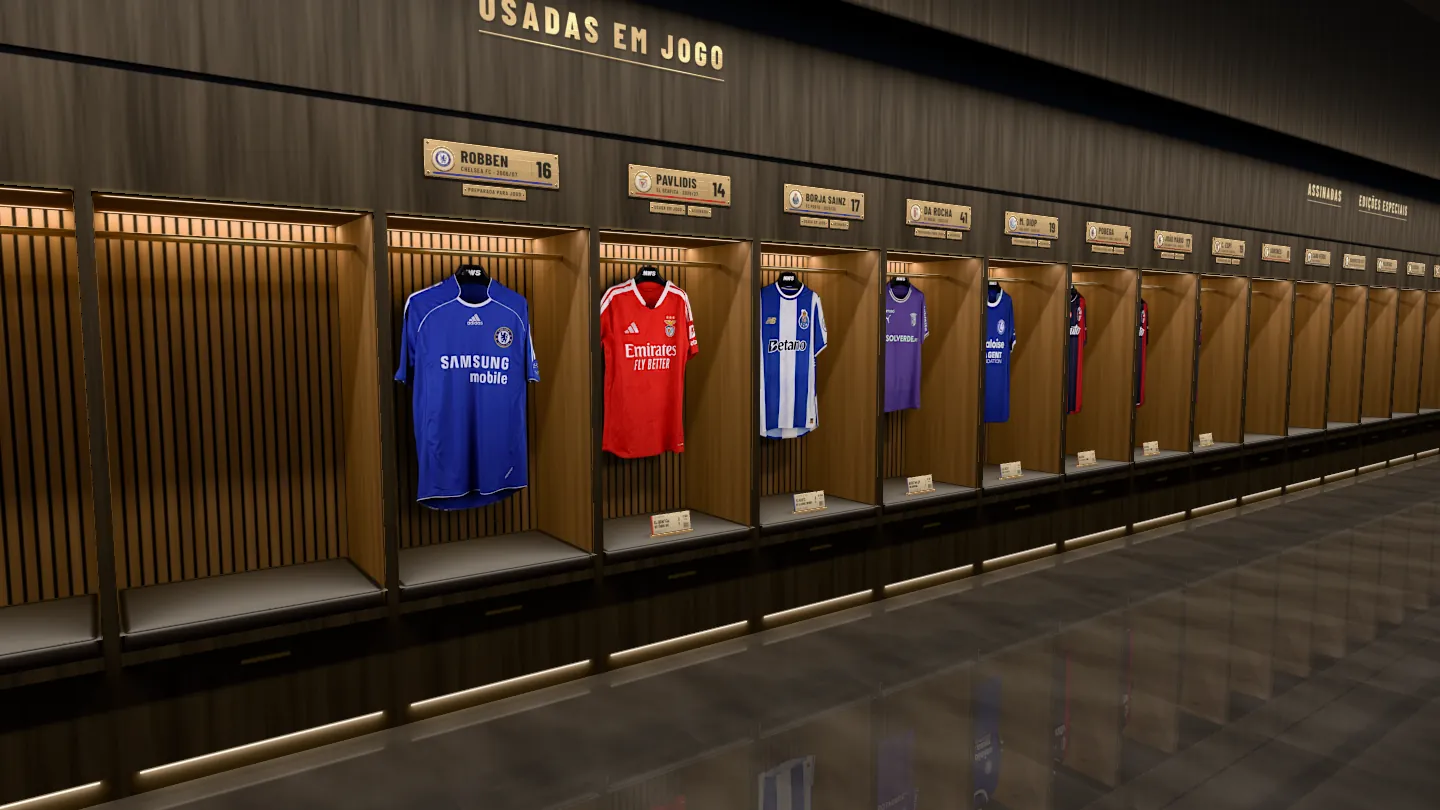
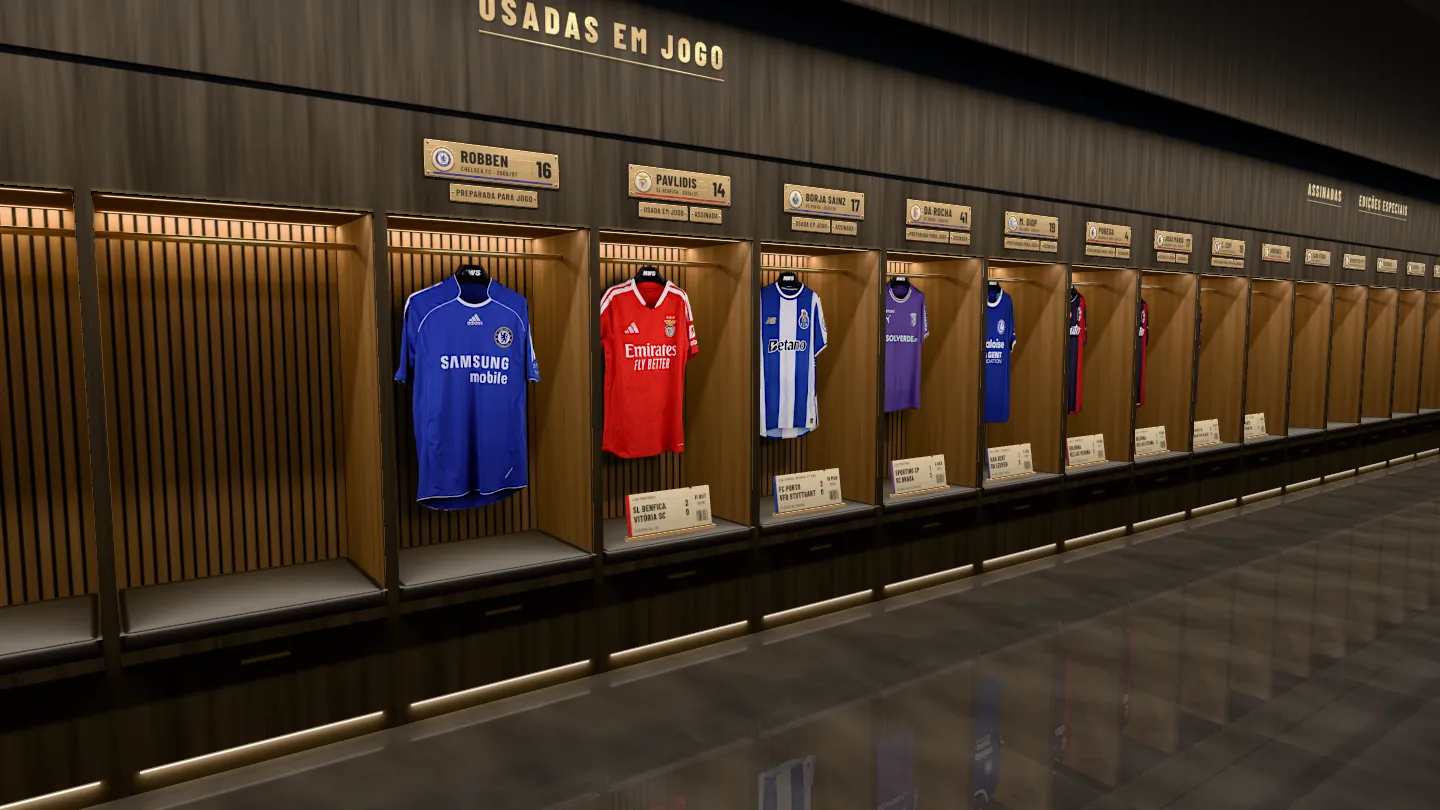
Versão 29: as chapinhas e os bilhetes dos cacifos, maiores
As chapinhas por baixo das placas passam a ter letras de 22 mm (eram 14) e o bilhete do jogo 43 cm de largura (eram 20).
O bilhete aparece mais cedo ao aproximar a vista geral e apaga-se com a camisola tirada do cacifo.
Fotografia nova na porta do balneário.

Claude-Session: https://claude.ai/code/session_0179qM3p6iES5cf63jN79My3

diff --git a/index.html b/index.html
@@ -739,7 +739,7 @@ details[open] summary svg:where(:not(#sala *)){transform:rotate(45deg)}
           <div class="bil-canhoto" id="canhoto"><div class="canhoto-in"><span class="bil-cod" aria-hidden="true"></span></div></div>
         </div>
         <nav class="portas" aria-label="Maneiras de ver a coleção">
-          <a class="porta-i" id="ir-bal" href="#balneario"><img src="sala/i/porta-bal.webp?v=3" alt="" width="1440" height="810" decoding="async"><span class="porta-t"><b>O balneário</b><small id="porta-bal-s">Os cacifos</small><span>Os cacifos e o varão, por categoria.</span></span></a>
+          <a class="porta-i" id="ir-bal" href="#balneario"><img src="sala/i/porta-bal.webp?v=4" alt="" width="1440" height="810" decoding="async"><span class="porta-t"><b>O balneário</b><small id="porta-bal-s">Os cacifos</small><span>Os cacifos e o varão, por categoria.</span></span></a>
           <a class="porta-i" id="ir-mundo" href="#mundo"><img src="sala/i/porta-mundo.webp?v=2" alt="" width="1440" height="810" decoding="async"><span class="porta-t"><b>A volta ao mundo</b><small id="porta-mundo-s">O globo</small><span>O globo, com paragem em cada país.</span></span></a>
         </nav>
       </header>
@@ -1699,9 +1699,10 @@ function luzBaia(j,l){corI.setScalar(l);for(var q=0;q<insts.length;q++)insts[q].
 /* Cada camisola com o que anda com ela (o reflexo no chão, a sombra e, mais abaixo, a placa) é um conjunto à parte dos cacifos:
    ao filtrar por categoria, as que ficam arrumam-se nos primeiros cacifos. "slot" é o cacifo onde está (-1 = fora da sala). */
 /* os pormenores de um cacifo (as chapinhas, o bilhete, a espessura da camisola, a segunda sombra) só se desenham quando a camisola tem tamanho
-   para se verem: de longe e na vista geral não se distinguem, e eram mais uma centena de desenhos por imagem (na vista geral, 350 em vez de 226) */
-var DETPX=32;      /* largura da camisola no ecrã, em pontos (não em píxeis do aparelho) */
-function detalhe(q,o){q.det.push(o);q.perto=null}
+   para se verem: de longe e na vista geral não se distinguem, e eram mais uma centena de desenhos por imagem (na vista geral, 350 em vez de 226).
+   O bilhete, que é a peça maior, entra mais cedo do que os outros (cedo): assim aparece ainda pequeno, sem dar um salto no ecrã */
+var DETPX=32,DETL=24;      /* largura da camisola no ecrã, em pontos (não em píxeis do aparelho): a partir de onde se desenham os pormenores, e os que entram cedo */
+function detalhe(q,o,cedo){q.det.push({o:o,n:cedo?1:2});q.perto=null}
 function fazKit(d,i){
   var q={d:d,i:i,slot:i,mats:[],g:new THREE.Group(),gm:new THREE.Group(),bal:0,vbal:0,luzA:-1,alta:null,eAlta:0,px:0,tFalha:0,longe:false,det:[],perto:null};
   q.g.position.x=q.gm.position.x=i*P;cima.add(q.g);espelho.add(q.gm);
@@ -1709,7 +1710,7 @@ function fazKit(d,i){
   var mpp=WS/d.larg,cx=d.caixa,w=(cx[2]-cx[0])*mpp,h=(cx[3]-cx[1])*mpp;
   /* não deixa a bainha tocar na almofada */
   if(ZV+.02-h<ZC+.07){var f=(ZV+.02-ZC-.07)/h;mpp*=f;w*=f;h*=f}
-  q.mpp=mpp;
+  q.mpp=mpp;q.h=h;
   var geo=new THREE.PlaneGeometry(w,h,REAL?24:1,1);geo.translate(((cx[0]+cx[2])/2-d.gancho[0])*mpp,-h/2,0);
   /* um pouco de corpo: a peça curva-se para trás dos ombros para fora (as mangas ficam uns centímetros atrás do peito) */
   if(REAL&&CURVA){var pg=geo.attributes.position;for(var vi=0;vi<pg.count;vi++){var xn=pg.getX(vi)/(WS/2);pg.setZ(vi,-CURVA*xn*xn)}pg.needsUpdate=true}
@@ -1755,7 +1756,7 @@ function pxKit(q){
 function gereAltas(){
   var quer=null,vq=0,pior=null,vp=1e9,agora=performance.now(),i,q,v;
   for(i=0;i<kits.length;i++){q=kits[i];v=q.px=pxKit(q);
-    if(q.det.length){var pt=v>DETPX*(DENS||razao());if(pt!==q.perto){q.perto=pt;for(var z=0;z<q.det.length;z++)q.det[z].visible=pt;suja=true}}
+    if(q.det.length){var dn=DENS||razao(),pt=v>DETPX*dn?2:v>DETL*dn?1:0;if(pt!==q.perto){q.perto=pt;for(var z=0;z<q.det.length;z++)q.det[z].o.visible=pt>=q.det[z].n;suja=true}}
     /* precisa da grande quando no ecrã fica maior do que a miniatura (um quinto da largura da camisola no vídeo) */
     if(q.eAlta===0){if(v>q.d.larg*.2*1.15&&v>vq&&agora>q.tFalha){vq=v;quer=q}}
     else if(q.eAlta===2&&v<vp){vp=v;pior=q}}
@@ -1863,8 +1864,9 @@ var FS_SALA_PLACA=[
 '  return c;}'].join('\n');
 /* O material de uma peça de latão. peca 0: a placa (quatro parafusos, o medalhão do emblema e a fita de esmalte); peca 1: uma peça pequena
    (proto/toques.js: as chapinhas e a base do bilhete), com dois rebites aos lados (uReb é o raio; a zero não há rebites) e sem medalhão.
-   aro: a largura do aro em relevo no desenho «fundida» (por dentro do chanfro). */
-function plFrag(comum,peca,aro){var A=function(d){return (aro+d).toFixed(4)};return [
+   aro: a largura do aro em relevo no desenho «fundida» (por dentro do chanfro). reb: a que distância da aresta ficam os rebites de uma peça
+   pequena, no latão escovado e na fundida (sem nada: 9 e 11,8 mm, os das primeiras chapinhas). */
+function plFrag(comum,peca,aro,reb){var A=function(d){return (aro+d).toFixed(4)},RB=(reb||[.0090,.0118]).map(function(v){return v.toFixed(4)});return [
 'uniform sampler2D uTinta,uRuido;uniform vec3 uCor,uFogC;uniform float uOp,uEstilo,uSem,uFogN,uFogF,uFoco;'+(peca?'uniform float uReb;':'uniform sampler2D uEmb;uniform vec4 uMed,uFita;'),
 'varying vec3 vW;varying vec3 vL;varying float vProf;',
 comum,
@@ -1905,7 +1907,7 @@ peca?'':'vec3 emblema(vec2 uv){vec2 dx=dFdx(uv),dy=dFdy(uv);\n'+
 '    occ*=1.-.55*(1.-topo)*max(clamp(so*1.3,0.,1.),smoothstep(-CH-'+A(.0008)+',-CH-'+A(-.0004)+',sd2));',
 '  }'].concat(peca?[
    /* dois rebites, um de cada lado, a meia altura (no desenho «fundida» ficam por dentro do aro) */
-'  vec2 sg=vec2(p.x<0.?-1.:1.,1.),o=vec2((abs(p.x)-(TAM.x-mix(.0090,.0118,uEstilo)))*sg.x,p.y);float RS=max(uReb,1e-5),rs=length(o),aas=fwidth(rs)*.7+1e-5;',
+'  vec2 sg=vec2(p.x<0.?-1.:1.,1.),o=vec2((abs(p.x)-(TAM.x-mix('+RB[0]+','+RB[1]+',uEstilo)))*sg.x,p.y);float RS=max(uReb,1e-5),rs=length(o),aas=fwidth(rs)*.7+1e-5;',
 '  float dS=step(.0001,uReb)*(1.-smoothstep(RS-aas,RS+aas,rs));',
 '  float ang=fract(sin(dot(sg,vec2(12.9898,78.233))+uSem*3.7)*43758.5453)*3.14159;',
 '  float fenda=1.-smoothstep(.00028,.00028+aas*1.5,abs(dot(o,vec2(-sin(ang),cos(ang)))));',
@@ -2088,47 +2090,58 @@ function fazLetreiro(txt,x0){
 /* ---------- os toques pessoais de cada cacifo ----------
    Só existem com PERS. São três, e o primeiro vive no material da placa (placas.js): a fita de esmalte na cor da camisola.
    Aqui ficam os outros dois:
-   - as chapinhas: pequenas peças de latão por baixo da placa, só onde há história para contar («Usada em jogo», «Preparada para jogo»,
+   - as chapinhas: peças de latão por baixo da placa, só onde há história para contar («Usada em jogo», «Preparada para jogo»,
      «Assinada», «Edição especial»). São do latão das placas (o mesmo material, com outras medidas), gravadas e presas por dois rebites;
    - o bilhete do jogo: nos cacifos cuja camisola tem um jogo, um bilhete em pé no banco, numa base de latão com ranhura, com as equipas,
      o resultado e a data, no papel do bilhete do início da aplicação.
-   Tudo entra no conjunto da camisola (q.g): acende com o cacifo, apaga-se quando as camisolas vão para o varão e muda de cacifo com ela ao filtrar. */
-var CHA=.040,CHE=.005,CHR=.004,CHC=.0024,CHM=.019,CHF=.014,CHV=.014,CHG=.012;      /* chapinha: altura, espessura, raio dos cantos, chanfro, margem das letras, altura das maiúsculas, distância à placa, intervalo entre duas */
-var FS_CHAPA=null,FS_SOMBRA_CHAPA=null,chTela=null,chTintas={},chGeos={},chSombras={},chVazia=null,nChapas=0,nBilhetes=0;
-function chProgramas(){if(FS_CHAPA)return;var c=plComum(0,0,CHR,CHC);FS_CHAPA=plFrag(c,1,.0034);FS_SOMBRA_CHAPA=plFragSombra(c,CHE/PLE);if(!plRuido)plRuido=plFazRuido()}
-/* a tinta de uma chapinha (as letras, num só canal, como nas placas) e a largura que a peça tem de ter para elas caberem. Uma por texto: são quatro ao todo */
-function chTinta(txt){
-  if(chTintas[txt])return chTintas[txt];
-  var k=PLPX/1000,c=chTela||(chTela=document.createElement('canvas')),x=c.getContext('2d',{willReadFrequently:true}),f=CHF*1000*k/.7,e=('letterSpacing' in x)?f*.085:0;
-  var poe=function(){x.font='700 '+f.toFixed(1)+'px "Barlow Condensed"';if(e)x.letterSpacing=e.toFixed(1)+'px';x.textBaseline='alphabetic';x.textAlign='left'};
-  poe();var wt=x.measureText(txt).width-e,larg=Math.ceil(wt/k+2*CHM*1000)/1000,W=Math.round(larg*PLPX),H=Math.round(CHA*PLPX);
-  c.width=W;c.height=H;poe();x.fillStyle='#000';x.fillRect(0,0,W,H);x.fillStyle='#fff';x.fillText(txt,(W-wt)/2,H/2+CHF*500*k);
+   Tudo entra no conjunto da camisola (q.g): acende com o cacifo, apaga-se quando as camisolas vão para o varão e muda de cacifo com ela ao filtrar.
+   O tamanho: as primeiras tinham as medidas de uma peça a sério (letras de 14 mm, um bilhete de 20 cm) e no telemóvel mal se liam. As medidas
+   de agora partem dessas, multiplicadas: TQC para as chapinhas, TQB para o bilhete. tq=c,b,l muda-as no endereço, para afinar (l é a largura
+   máxima de uma fila de chapinhas, em metros; sem nada, a largura da placa). */
+var TQ=((/[?&]tq=([\d.,]+)/.exec(location.search)||[])[1]||'').split(',').map(Number),TQC=TQ[0]||1.5,TQB=TQ[1]||2.15,CHX=TQ[2]||PLW,TQR=Math.sqrt(TQC);
+var CHA=.040*TQC,CHF=.0147*TQC,CHM=.014*TQC,CHG=.008*TQC,CHV=.014*TQR,CHE=.005*TQR,CHR=.004*TQR,CHC=.0024*TQR,CHT=.04;      /* chapinha: altura, altura das maiúsculas, margem das letras, intervalo entre duas, distância à placa, espessura, raio dos cantos, chanfro, espaço entre letras (em partes do corpo) */
+var FS_CHAPA=null,FS_SOMBRA_CHAPA=null,chTela=null,chTintas={},chGeos={},chSombras={},chVazia=null,nChapas=0,nBilhetes=0,chFila=0;
+function chProgramas(){if(FS_CHAPA)return;var c=plComum(0,0,CHR,CHC);FS_CHAPA=plFrag(c,1,.0034*TQR,[.0090*TQR,.0118*TQR]);FS_SOMBRA_CHAPA=plFragSombra(c,CHE/PLE);if(!plRuido)plRuido=plFazRuido()}
+/* as letras de uma chapinha, com as maiúsculas à altura pedida (m); devolve o espaço entre letras, em píxeis */
+function chLetra(x,alt){var f=alt*PLPX/.7,e=('letterSpacing' in x)?f*CHT:0;x.font='700 '+f.toFixed(1)+'px "Barlow Condensed"';if(e)x.letterSpacing=e.toFixed(1)+'px';x.textBaseline='alphabetic';x.textAlign='left';return e}
+function chCtx(){return (chTela||(chTela=document.createElement('canvas'))).getContext('2d',{willReadFrequently:true})}
+/* a largura (m) que a peça tem de ter para o texto caber, com as letras a essa altura */
+function chLarg(txt,alt){var x=chCtx(),e=chLetra(x,alt);return Math.ceil((x.measureText(txt).width-e)/PLPX*1000+2*CHM*1000)/1000}
+/* a tinta de uma chapinha (as letras, num só canal, como nas placas). Uma por texto e por altura de letra: são quatro textos ao todo */
+function chTinta(txt,alt){
+  var ch=txt+'|'+alt.toFixed(4);if(chTintas[ch])return chTintas[ch];
+  var larg=chLarg(txt,alt),x=chCtx(),c=chTela,W=Math.round(larg*PLPX),H=Math.round(CHA*PLPX);
+  c.width=W;c.height=H;var e=chLetra(x,alt),wt=x.measureText(txt).width-e;x.fillStyle='#000';x.fillRect(0,0,W,H);x.fillStyle='#fff';x.fillText(txt,(W-wt)/2,H/2+alt*PLPX/2);
   var px=x.getImageData(0,0,W,H).data,u=new Uint8Array(W*H);
   for(var y=0;y<H;y++){var o=(H-1-y)*W*4,q=y*W;for(var i=0;i<W;i++)u[q+i]=px[o+i*4]}
   var t=new THREE.DataTexture(u,W,H,THREE.RedFormat,THREE.UnsignedByteType);t.colorSpace=THREE.NoColorSpace;t.generateMipmaps=true;t.minFilter=THREE.LinearMipmapLinearFilter;t.magFilter=THREE.LinearFilter;t.anisotropy=ANISO;t.needsUpdate=true;
-  return chTintas[txt]={t:t,w:larg};
+  return chTintas[ch]={t:t,w:larg};
 }
-/* o material de uma peça pequena de latão. fixo: não muda com o desenho das placas (a base do bilhete é sempre de latão escovado) */
+/* o material de uma peça pequena de latão. fixo: é a base do bilhete, que não muda com o desenho das placas (é sempre de latão escovado) e se apaga com o bilhete */
 function chMaterial(tinta,larg,alt,reb,sem,fixo){
   var m=new THREE.ShaderMaterial({uniforms:{uTinta:{value:tinta},uRuido:{value:plRuido},uCor:{value:new THREE.Color(1,1,1)},uFogC:{value:cena.fog.color},uFogN:{value:cena.fog.near},uFogF:{value:cena.fog.far},
     uOp:{value:1},uEstilo:{value:fixo?0:plEstilo},uSem:{value:sem},uFoco:{value:7},uTam:{value:new THREE.Vector2(larg/2,alt/2)},uReb:{value:reb}},vertexShader:VS_PLACA,fragmentShader:FS_CHAPA,transparent:true});
   m.color=m.uniforms.uCor.value;
   Object.defineProperty(m,'opacity',{get:function(){return this.uniforms.uOp.value},set:function(v){this.uniforms.uOp.value=v}});
-  (fixo?plFixos:plMats).push(m);placas.push(m);return m;
+  (fixo?plFixos:plMats).push(m);(fixo?blMats:placas).push(m);return m;
 }
 function chSombra(larg,alt){
   var ch=larg+'x'+alt;if(chSombras[ch])return chSombras[ch];
   var m=new THREE.ShaderMaterial({uniforms:{uOp:{value:1},uTam:{value:new THREE.Vector2(larg/2,alt/2)}},vertexShader:VS_SOMBRA_PLACA,fragmentShader:FS_SOMBRA_CHAPA,transparent:true,depthWrite:false});
   Object.defineProperty(m,'opacity',{get:function(){return this.uniforms.uOp.value},set:function(v){this.uniforms.uOp.value=v}});placas.push(m);
-  return chSombras[ch]={m:m,g:new THREE.PlaneGeometry(larg+.045,alt+.045)};
+  return chSombras[ch]={m:m,g:new THREE.PlaneGeometry(larg+.045*TQR,alt+.045*TQR)};
 }
-/* as chapinhas de um cacifo, lado a lado e centradas por baixo da placa (duas no máximo: mais do que isso já não cabia à largura da placa) */
+/* as chapinhas de um cacifo, lado a lado e centradas por baixo da placa (duas no máximo). A fila nunca fica mais larga do que a placa:
+   se ficasse, as letras desse cacifo encolhem até caber (é a regra dos nomes compridos nas placas) */
 function fazChapas(q,l,n){
   chProgramas();
-  var ps=l.slice(0,2).map(function(t){return chTinta(t.toUpperCase())}),tot=CHG*(ps.length-1);ps.forEach(function(p){tot+=p.w});
+  var txt=l.slice(0,2).map(function(t){return t.toUpperCase()}),alt=CHF,ws,tot;
+  var mede=function(){ws=txt.map(function(t){return chLarg(t,alt)});tot=CHG*(txt.length-1);ws.forEach(function(w){tot+=w})};
+  for(mede();tot>CHX+1e-6&&alt>CHF*.6;mede())alt-=.0002;
+  if(tot>chFila)chFila=tot;
   var x=-tot/2,y=(ZT+2.15)/2+.012-PLH/2-CHV-CHA/2;
-  ps.forEach(function(p,j){
-    var g=chGeos[p.w]||(chGeos[p.w]=plGeometria(p.w,CHA,CHE,CHR,CHC)),so=chSombra(p.w,CHA),m=chMaterial(p.t,p.w,CHA,.0022,n*1.618+7.3*(j+1));
+  txt.forEach(function(t,j){
+    var p=chTinta(t,alt),g=chGeos[p.w]||(chGeos[p.w]=plGeometria(p.w,CHA,CHE,CHR,CHC)),so=chSombra(p.w,CHA),m=chMaterial(p.t,p.w,CHA,.0022*TQR,n*1.618+7.3*(j+1));
     q.mats.push(m);
     var s=new THREE.Mesh(so.g,so.m);s.position.set(x+p.w/2,y,D+.0034);s.renderOrder=1;q.g.add(s);detalhe(q,s);
     var o=new THREE.Mesh(g,m);o.position.set(x+p.w/2,y,D+.003+CHE);o.renderOrder=2;q.g.add(o);detalhe(q,o);nChapas++;
@@ -2137,18 +2150,21 @@ function fazChapas(q,l,n){
 }
 
 /* ---------- o bilhete do jogo ---------- */
-var BLW=.200,BLH=.084,BLPX=3,BLZ=.47,BLI=.15,BLP=154;      /* largura e altura (m), píxeis por milímetro, a que distância do fundo do cacifo fica, inclinação para trás (rad), onde está o picotado (mm) */
-var BSW=.214,BSH=.014,BSE=.018;                           /* a base: largura, altura e fundura */
+var BLW0=200,BLH0=84,BLPX=3,BLP=154;      /* o desenho do bilhete: largura e altura (em milímetros do desenho), píxeis por milímetro, onde está o picotado */
+var BLW=BLW0/1000*TQB,BLH=BLH0/1000*TQB,BLZ=.47,BLI=.15;      /* a peça no cacifo: largura e altura (m), a que distância do fundo do cacifo fica, inclinação para trás (rad) */
+var BSW=BLW+.014*Math.sqrt(TQB),BSH=.014*Math.sqrt(TQB),BSE=.018*Math.pow(TQB,.75);      /* a base: largura, altura e fundura */
 var blTela=null,blGeo=null,blGeoB=null,blGeoS=null,blMatS=null;
+/* os materiais dos bilhetes (o papel, a base e a sombra na almofada): além de se apagarem com as camisolas, apagam-se com a camisola em foco (ver passoBal) */
+var blMats=[],fBil=1,opBA=-1,blFolga=9;      /* blFolga: a menor folga (m), vista de frente, entre o cimo de um bilhete e a bainha da camisola que tem por cima */
 /* o bilhete desenhado: papel creme com riscas finas (o do bilhete do início), uma faixa na cor da camisola, a prova, as duas equipas com o resultado,
    o estádio e, no canhoto, a data e um código de barras. A luz do cacifo já vai no desenho: vem de cima, e cá em baixo chega mais fraca. */
 function blTextura(d){
-  var j=d.jogo,k=BLPX,W=Math.round(BLW*1000*k),H=Math.round(BLH*1000*k),c=blTela||(blTela=document.createElement('canvas'));
+  var j=d.jogo,k=BLPX,W=Math.round(BLW0*k),H=Math.round(BLH0*k),c=blTela||(blTela=document.createElement('canvas'));
   if(c.width!==W||c.height!==H){c.width=W;c.height=H}
   var x=c.getContext('2d',{willReadFrequently:true}),TINTA='#17160f',TINTA2='#5f5a4e',temEsp='letterSpacing' in x;
   x.globalCompositeOperation='source-over';x.textBaseline='alphabetic';
   x.fillStyle='#efe6d2';x.fillRect(0,0,W,H);
-  x.fillStyle='rgba(60,40,10,.07)';for(var i=0;i<BLW*1000;i+=4)x.fillRect(i*k,0,.6*k,H);
+  x.fillStyle='rgba(60,40,10,.07)';for(var i=0;i<BLW0;i+=4)x.fillRect(i*k,0,.6*k,H);
   x.fillStyle=d.cor||'#c4302b';x.fillRect(0,0,9*k,H);
   /* escreve com as maiúsculas à altura pedida (mm); se não couber na largura, encolhe. Devolve a altura com que ficou */
   var letra=function(peso,alt,espaco){var f=alt*k/.7;x.font=peso+' '+f.toFixed(1)+'px "Barlow Condensed"';if(temEsp)x.letterSpacing=(f*espaco).toFixed(1)+'px'};
@@ -2161,12 +2177,12 @@ function blTextura(d){
   letra(800,12.5,0);x.textAlign='right';x.fillText(j.gc==null?'':String(j.gc),XR*k,37.4*k);x.fillText(j.gf==null?'':String(j.gf),XR*k,56.4*k);
   x.textAlign='left';x.fillStyle=TINTA2;var est=String(j.estadio||'').toUpperCase();cabe(est,700,5.8,.09,XR-X0);x.fillText(est,X0*k,75*k);
   /* o canhoto: picotado, a data e o código de barras */
-  x.fillStyle='rgba(23,22,15,.4)';for(var y=5;y<BLH*1000-5;y+=3.4)x.fillRect((BLP-.3)*k,y*k,.6*k,1.9*k);
-  var dt=String(j.data||'').toUpperCase().split(' '),xm=(BLP+BLW*1000)/2;
-  x.textAlign='center';x.fillStyle=TINTA;cabe(dt.slice(0,2).join(' '),800,9,.02,BLW*1000-BLP-12);x.fillText(dt.slice(0,2).join(' '),xm*k,27*k);
+  x.fillStyle='rgba(23,22,15,.4)';for(var y=5;y<BLH0-5;y+=3.4)x.fillRect((BLP-.3)*k,y*k,.6*k,1.9*k);
+  var dt=String(j.data||'').toUpperCase().split(' '),xm=(BLP+BLW0)/2;
+  x.textAlign='center';x.fillStyle=TINTA;cabe(dt.slice(0,2).join(' '),800,9,.02,BLW0-BLP-12);x.fillText(dt.slice(0,2).join(' '),xm*k,27*k);
   if(dt[2]){x.fillStyle=TINTA2;letra(700,6.6,.08);x.fillText(dt[2],xm*k+(temEsp?6.6*.08/.7*k/2:0),39*k)}
   x.fillStyle=TINTA;var s=7;for(i=0;i<d.id.length;i++)s=(s*31+d.id.charCodeAt(i))%2147483647;
-  for(var bx=BLP+9;bx<BLW*1000-9;){s=(s*16807)%2147483647;var lb=.5+(s%3)*.45;x.fillRect(bx*k,50*k,lb*k,22*k);s=(s*16807)%2147483647;bx+=lb+.5+(s%3)*.4}
+  for(var bx=BLP+9;bx<BLW0-9;){s=(s*16807)%2147483647;var lb=.5+(s%3)*.45;x.fillRect(bx*k,50*k,lb*k,22*k);s=(s*16807)%2147483647;bx+=lb+.5+(s%3)*.4}
   x.globalCompositeOperation='multiply';var g=x.createLinearGradient(0,0,0,H);g.addColorStop(0,'rgb(232,217,194)');g.addColorStop(1,'rgb(188,173,151)');x.fillStyle=g;x.fillRect(0,0,W,H);x.globalCompositeOperation='source-over';
   /* o recorte (cantos boleados e as duas meias-luas do picotado) vai na transparência, calculado à parte: assim as margens não escurecem ao encolher a imagem */
   var px=x.getImageData(0,0,W,H).data,u=new Uint8Array(W*H*4),r=2.4*k,rn=3.4*k,xp=BLP*k;
@@ -2180,21 +2196,24 @@ function blTextura(d){
 }
 function fazBilhete(q,n){
   chProgramas();
+  var e=Math.pow(TQB,.75);
   if(!blGeo){
     blGeo=new THREE.PlaneGeometry(BLW,BLH);blGeo.translate(0,BLH/2,0);blGeoB=plGeometria(BSW,BSH,BSE,CHR,CHC);
     chVazia=new THREE.DataTexture(new Uint8Array([0]),1,1,THREE.RedFormat,THREE.UnsignedByteType);chVazia.needsUpdate=true;
     /* a sombra do bilhete e da base na almofada: uma mancha suave, mais para trás do que para a frente (a luz do cacifo vem de cima e da frente) */
     var c=document.createElement('canvas');c.width=128;c.height=64;var x=c.getContext('2d'),g=x.createRadialGradient(64,32,2,64,32,62);
     g.addColorStop(0,'rgba(0,0,0,.62)');g.addColorStop(.45,'rgba(0,0,0,.34)');g.addColorStop(1,'rgba(0,0,0,0)');x.setTransform(1,0,0,.5,0,16);x.fillStyle=g;x.fillRect(0,-32,128,128);
-    var ts=new THREE.CanvasTexture(c);blMatS=new THREE.MeshBasicMaterial({map:ts,transparent:true,depthWrite:false});placas.push(blMatS);
-    blGeoS=new THREE.PlaneGeometry(BSW+.10,.13);
+    var ts=new THREE.CanvasTexture(c);blMatS=new THREE.MeshBasicMaterial({map:ts,transparent:true,depthWrite:false});blMats.push(blMatS);
+    blGeoS=new THREE.PlaneGeometry(BSW+.10*e,.13*e);
   }
-  var gb=new THREE.Group();gb.position.set(0,ZC,BLZ);q.g.add(gb);detalhe(q,gb);
-  var so=new THREE.Mesh(blGeoS,blMatS);so.rotation.x=-Math.PI/2;so.position.set(0,.0015,-.022);so.renderOrder=1;gb.add(so);
+  var gb=new THREE.Group();gb.position.set(0,ZC,BLZ);q.g.add(gb);detalhe(q,gb,1);
+  /* a folga até à bainha: onde a linha que vai da câmara (na vista de frente) ao cimo do bilhete chega ao plano da camisola */
+  var F=VISTAS[1].p,yt=ZC+BSH-.004*Math.sqrt(TQB)+BLH*Math.cos(BLI),zt=BLZ-BLH*Math.sin(BLI),fg=ZV+.02-q.h-(yt-(F[1]-yt)/(F[2]-zt)*(zt-ZR));if(fg<blFolga)blFolga=fg;
+  var so=new THREE.Mesh(blGeoS,blMatS);so.rotation.x=-Math.PI/2;so.position.set(0,.0015,-.022*e);so.renderOrder=1;gb.add(so);
   var mb=chMaterial(chVazia,BSW,BSH,0,n*2.39,true);q.mats.push(mb);
   var base=new THREE.Mesh(blGeoB,mb);base.position.set(0,BSH/2,BSE/2);base.renderOrder=2;gb.add(base);
-  var m=new THREE.MeshBasicMaterial({map:blTextura(q.d),transparent:true,depthWrite:false});q.mats.push(m);placas.push(m);
-  var b=new THREE.Mesh(blGeo,m);b.position.set(0,BSH-.004,0);b.rotation.x=-BLI;b.renderOrder=3;gb.add(b);nBilhetes++;
+  var m=new THREE.MeshBasicMaterial({map:blTextura(q.d),transparent:true,depthWrite:false});q.mats.push(m);blMats.push(m);
+  var b=new THREE.Mesh(blGeo,m);b.position.set(0,BSH-.004*Math.sqrt(TQB),0);b.rotation.x=-BLI;b.renderOrder=3;gb.add(b);nBilhetes++;
 }
 /* o que cada cacifo leva, pelo que a camisola é */
 function fazToques(q,n){
@@ -2209,7 +2228,7 @@ function fazToques(q,n){
 var letreiros=[],placas=[];
 function fazTextos(){
   CATS.forEach(function(c){var ml=fazLetreiro(c,0);ml.userData.sec=c;letreiros.push(ml)});arrumaLetreiros();
-  var k=0;(function lote(){for(var f=Math.min(kits.length,k+6);k<f;k++){fazPlaca(kits[k],kits[k].i+1);if(PERS)fazToques(kits[k],kits[k].i+1)}opA=-1;suja=true;if(k<kits.length)setTimeout(lote,0);else{pend--;verPronto()}})();
+  var k=0;(function lote(){for(var f=Math.min(kits.length,k+6);k<f;k++){fazPlaca(kits[k],kits[k].i+1);if(PERS)fazToques(kits[k],kits[k].i+1)}opA=opBA=-1;suja=true;if(k<kits.length)setTimeout(lote,0);else{pend--;verPronto()}})();
 }
 /* cada letreiro fica por cima do primeiro cacifo da sua secção; se a secção não está à vista, sai */
 function arrumaLetreiros(){letreiros.forEach(function(m){var s=-1,n=0;for(var j=0;j<NV;j++)if(DADOS[VIS[j]].sec===m.userData.sec){if(s<0)s=j;n++}
@@ -2690,6 +2709,8 @@ function passoBal(dt){
   var ac=modo==='varao'?0:1;if(Math.abs(fCam-ac)>.002){fCam=Math.abs(fCam-ac)<.01?ac:mistura(fCam,ac,k1);mexe=true}
   var op=fCam*fFil;if(op!==opA){opA=op;var vis=op>.01;
     kits.forEach(function(q){q.mCam.opacity=op;q.mSom.opacity=.6*op;q.cam.visible=q.camE.visible=q.sombra.visible=vis;if(q.mCos){q.mCos.opacity=.86*op;q.mSom2.opacity=.36*op}});letreiros.forEach(function(m){m.opacity=op});placas.forEach(function(m){m.opacity=op})}
+  /* com a camisola tirada do cacifo o bilhete apaga-se: a câmara chega-se à camisola e ele ficava ao fundo do ecrã, por trás do nome */
+  if(PERS){var ab=foco&&!foco.varao?0:1;if(fBil!==ab){fBil=mistura(fBil,ab,k2);if(Math.abs(fBil-ab)<.004)fBil=ab;mexe=true}var ob=op*fBil;if(ob!==opBA){opBA=ob;blMats.forEach(function(m){m.opacity=ob})}}
   /* o varão desce do teto quando se muda para ele */
   var av=modo==='varao'?1:0;if(Math.abs(fVar-av)>.002){fVar=mistura(fVar,av,k1);mexe=true}
   gVar.visible=gVarE.visible=fVar>.01;
@@ -3219,7 +3240,7 @@ addEventListener('resize',mede);mede();vai('menu');verPronto();acorda();
 window.__proto={vai:vai,foca:foca,desfoca:desfoca,
   dorme:function(b){sono=!!b;if(sono){try{filme.pause()}catch(_){}}else{if(foco&&filme.classList.contains('on')&&!PARADO)filme.play().catch(function(){});suja=true;acorda()}},
   estado:function(){return {ecra:ecra,modo:modo,vista:vista,idx:idx,aberto:aberto,foco:!!foco,pend:pend,par:par,pr:razao(),sono:sono,roda:roda}},
-  toques:function(){return {pers:PERS,real:REAL,perto:kits.filter(function(q){return q.det.length&&q.perto}).length,chapas:nChapas,bilhetes:nBilhetes,fitas:plMats.filter(function(m){return m.uniforms.uFita&&m.uniforms.uFita.value.w>0}).length}},
+  toques:function(){return {pers:PERS,real:REAL,perto:kits.filter(function(q){return q.det.length&&q.perto}).length,chapas:nChapas,bilhetes:nBilhetes,fitas:plMats.filter(function(m){return m.uniforms.uFita&&m.uniforms.uFita.value.w>0}).length,fila:chFila,chapa:[CHA,CHF],bilhete:[BLW,BLH],opB:opBA,placa:[PLW,PLH],folga:blFolga,cedo:kits.filter(function(q){return q.perto===1}).length}},
   zoom:function(px,x){largaPin();if(x==null)x=W/2;if(px==null){if(zoomG!=null){zoomG=null;arruma(idxF);legenda();uiEstado();suja=true}return null}
     if(!comecaZoom(x))return false;pin.roda=true;mexeZoom(px/pin.px0,x);var a=poseGeral();offP.set(a.p[0],a.p[1],a.p[2]);offO.set(a.o[0],a.o[1],a.o[2]);fovA=a.f;passoBal(0);acabaZoom();return zoomG},
   mats:function(){return {longe:matLonge,focos:matFocos,teto:matTeto}},
